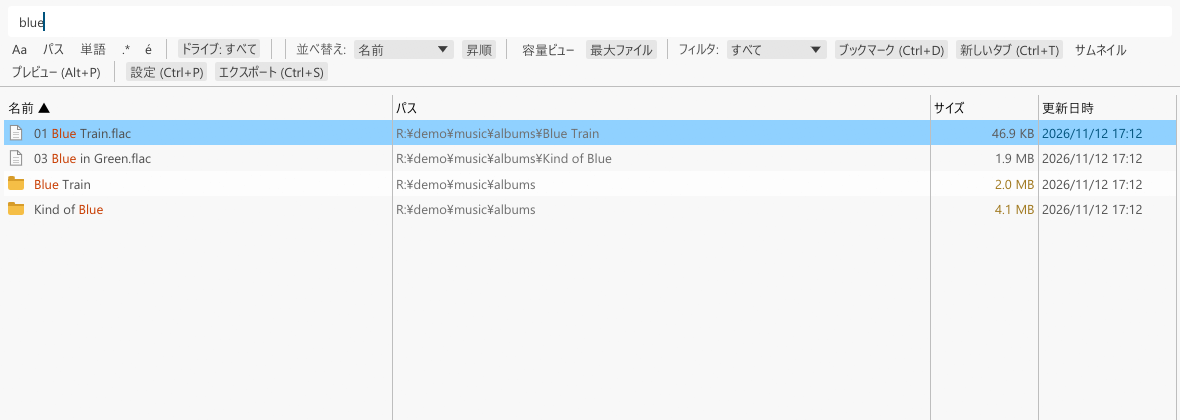
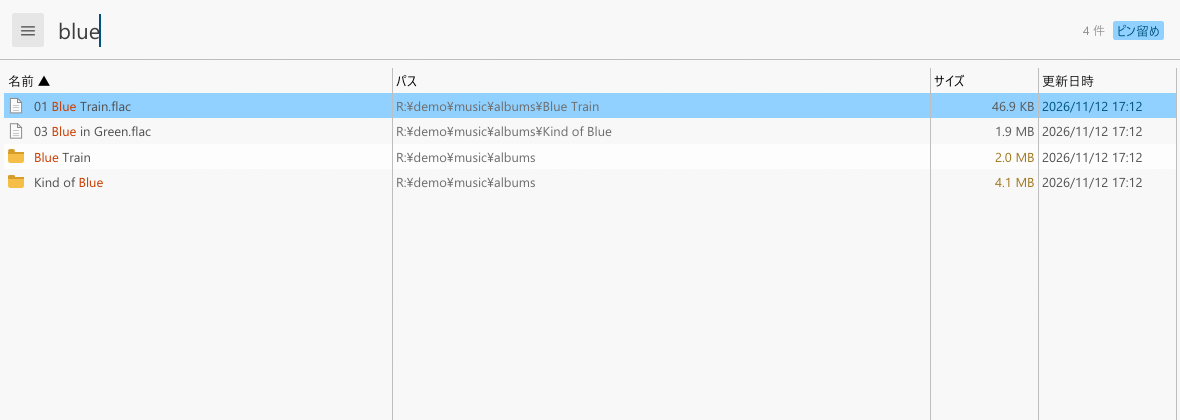
docs: 新 UI のスクリーンショットと浮動パネルの画像、X 投稿用バナーを追加

diff --git a/scripts/banner.py b/scripts/banner.py
@@ -1,0 +1,95 @@
+"""X (Twitter) 投稿用バナー 1600x900 を PIL で描く。"""
+import sys
+from PIL import Image, ImageDraw, ImageFont, ImageFilter
+
+R = r'C:\repos\github.com\kuguma\accio'
+OUT = sys.argv[1]
+LANG = sys.argv[2] if len(sys.argv) > 2 else 'ja'
+SHOT = sys.argv[3] if len(sys.argv) > 3 else R + r'\docs\images\screenshot.png'
+W, H = 1600, 900
+PAPER = (244, 243, 239)
+INK = (22, 22, 26)
+MUTE = (110, 110, 118)
+ACCENT = (200, 60, 0)
+
+def font(path, size, index=0):
+    return ImageFont.truetype(path, size, index=index)
+
+F = r'C:\Windows\Fonts'
+f_title = font(F + r'\YuGothB.ttc', 128, 1)
+f_tag = font(F + r'\YuGothB.ttc', 50, 1)
+f_sub = font(F + r'\YuGothM.ttc', 28, 1)
+f_chip = font(F + r'\YuGothB.ttc', 30, 1)
+f_url = font(F + r'\CascadiaMono.ttf', 26)
+
+im = Image.new('RGB', (W, H), PAPER)
+d = ImageDraw.Draw(im)
+
+# 左上: ロゴ + ワードマーク
+logo = Image.open(R + r'\docs\images\logo.png').convert('RGBA')
+# ロゴは角丸タイル。タイルの地色を背景に溶かすため、黒の筆画だけを使う
+ink_only = Image.new('RGBA', logo.size, (0, 0, 0, 0))
+px = logo.load(); ip = ink_only.load()
+for y in range(logo.size[1]):
+    for x in range(logo.size[0]):
+        r, g, b, a = px[x, y]
+        lum = (r + g + b) / 3
+        alpha = 0 if lum >= 232 else int(max(0, min(255, (232 - lum) * 255 / 210)) * a / 255)
+        ip[x, y] = (INK[0], INK[1], INK[2], alpha)
+logo_big = ink_only.resize((300, 300), Image.Resampling.LANCZOS)
+im.paste(logo_big, (96, 70), logo_big)
+
+d.text((420, 92), 'accio', font=f_title, fill=INK)
+if LANG == 'ja':
+    tag = 'Windows 向けの即時ファイル検索。'
+    sub = 'NTFS の MFT を直接読み、USN ジャーナルで変更を追い、UI は決して止まらない。'
+    chips = ['フリーズなし', '2,000 万件を 45 ms で検索', '起動 2.0 秒', 'MIT ライセンス']
+else:
+    tag = 'Instant file search for Windows.'
+    sub = 'Reads the NTFS MFT directly, tracks changes through the USN journal, never blocks the UI.'
+    chips = ['No freezes', '20 M files searched in 45 ms', 'Starts in 2.0 s', 'MIT licensed']
+d.text((424, 246), tag, font=f_tag, fill=INK)
+
+# チップ（文字は枠の縦中央に anchor で揃える）
+x, y = 424, 344
+ch = 58
+for c in chips:
+    tw = d.textlength(c, font=f_chip)
+    if x + tw + 40 > W - 80:
+        x = 424; y += ch + 14
+    d.rounded_rectangle((x, y, x + tw + 40, y + ch), radius=ch // 2, outline=INK, width=2)
+    d.text((x + 20, y + ch / 2), c, font=f_chip, fill=INK, anchor='lm')
+    x += tw + 40 + 14
+
+# 下: スクリーンショット（角丸ウィンドウ、影つき、下端にかける）
+shot = Image.open(SHOT).convert('RGB')
+sw = 1440
+sh = int(shot.size[1] * sw / shot.size[0])
+shot = shot.resize((sw, sh), Image.Resampling.LANCZOS)
+# タイトルバー風の帯
+bar = 36
+card = Image.new('RGB', (sw, sh + bar), (232, 231, 226))
+card.paste(shot, (0, bar))
+cd = ImageDraw.Draw(card)
+cd.text((16, 7), 'accio', font=font(F + r'\YuGothM.ttc', 18, 1), fill=MUTE)
+cd.rectangle((0, bar - 1, sw, bar - 1), fill=(210, 209, 204))
+radius = 18
+mask = Image.new('L', card.size, 0)
+ImageDraw.Draw(mask).rounded_rectangle((0, 0, sw, sh + bar), radius=radius, fill=255)
+cx, cy = (W - sw) // 2, 470
+shadow = Image.new('RGBA', (W, H), (0, 0, 0, 0))
+sd = ImageDraw.Draw(shadow)
+sd.rounded_rectangle((cx + 4, cy + 18, cx + sw - 4, cy + sh + bar + 18), radius=radius, fill=(0, 0, 0, 90))
+shadow = shadow.filter(ImageFilter.GaussianBlur(22))
+im.paste(shadow, (0, 0), shadow)
+im.paste(card, (cx, cy), mask)
+d = ImageDraw.Draw(im)
+d.rounded_rectangle((cx, cy, cx + sw, cy + sh + bar), radius=radius, outline=(200, 199, 194), width=1)
+
+# URL（右上）
+url = 'github.com/kuguma/accio'
+tw = d.textlength(url, font=f_url)
+d.text((W - 80 - tw, 70), url, font=f_url, fill=MUTE)
+
+im.save(OUT, optimize=True)
+print('saved', OUT, im.size)

diff --git a/README.md b/README.md
@@ -19,6 +19,10 @@
 
 ![accio screenshot](docs/images/screenshot.png)
 
+<p align="center"><img src="docs/images/float.png" width="600" alt="accio as a floating panel" /></p>
+
+<p align="center"><sub>Pinned (top): a normal window that works as a file browser. Unpinned (bottom): a Spotlight-style panel that hides when you click elsewhere.</sub></p>
+
 ## Why
 
 Everything is the fastest file search on Windows, but it can freeze and start slowly on large volumes. accio keeps everything that makes Everything good (instant incremental search, the full query syntax, the IPC/HTTP/ETP interfaces that other tools rely on) and fixes the rest:
@@ -68,7 +72,8 @@ Requires a Rust toolchain on Windows. `cargo test` runs the whole suite without 
 | Files | Open, open path, copy, copy path, rename, bulk rename, recycle, Explorer context menu, drag and drop, properties, run as administrator |
 | Index | NTFS MFT scan + USN journal, ReFS (directory enumeration + USN V3), folder indexes for any path or UNC share with change watching, exclusions and include-only, hard links, folder sizes |
 | Integration | IPC v1/v2/v3, HTTP server (JSON/HTML, Basic auth), ETP/FTP server, `es:` URL protocol, Explorer folder context menu, EFU export and file lists |
-| App | Tray icon with double-click to show, global hotkey, autostart, session restore, English/Japanese UI and docs, light/dark/system theme, fonts and colors |
+| UI | Search bar and results only; every option lives in the hamburger menu. Pinned window or Spotlight-style floating panel (Ctrl+Shift+P), light/dark/system theme, fonts and colors |
+| App | Tray icon with double-click to show, global hotkey, autostart, session restore, English/Japanese UI and docs |
 
 See [docs/usage.en.md](docs/usage.en.md) for keyboard shortcuts, the query syntax, command-line options and every `accio.ini` key.
 
